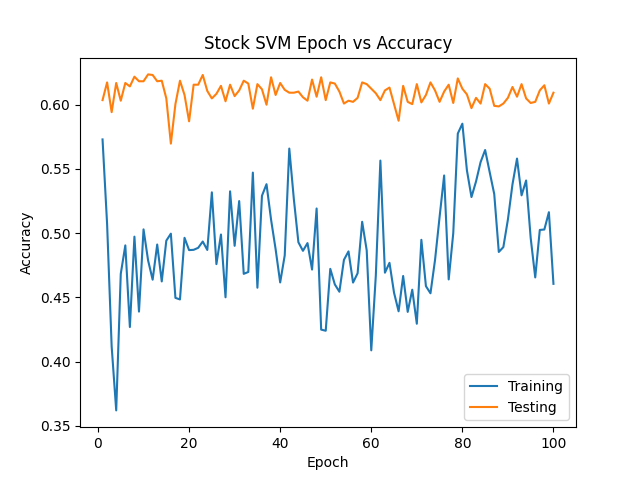
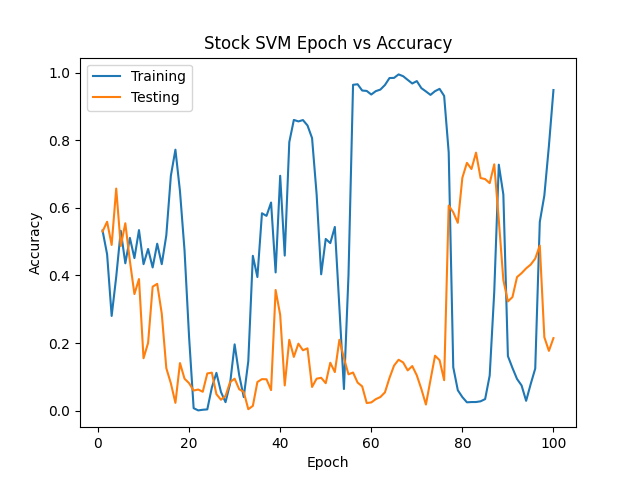
Update

diff --git a/1/nn.py b/1/nn.py
@@ -8,7 +8,7 @@ accuracy_key = 'categorical_accuracy'
 def neural_network(data, depth, width, is_stock=False, with_history=False, epochs=100, validation_split=0.2, should_normalize=True):
     train_features, train_labels, test_features, test_labels, normalize = data
     model = k.Sequential([normalize])
-    for i in range(depth):
+    for _ in range(depth):
         model.add(k.layers.Dense(width))
     model.add(k.layers.Dense(2 if is_stock else 4, activation='softmax'))
     model.compile(loss='kl_divergence' if is_stock else 'sparse_categorical_crossentropy', optimizer='adamax' if is_stock else 'adam', metrics=['mse', accuracy_key])
@@ -31,30 +31,27 @@ def stock():
     util.handle_training_testing_plot(lambda width: neural_network(get_stock_data(1), depth, width, True), widths, "Stock NN Width vs Accuracy", 'Width')
 
     width = stock_days*2
-    a, b, history = neural_network(get_stock_data(1), depth, width, True, True)
+    _, _, history = neural_network(get_stock_data(1), depth, width, True, True)
     epochs = [*range(1,history.params['epochs']+1)]
     training_accuracies = history.history[accuracy_key]
     testing_accuracies = history.history['val_'+accuracy_key]
     util.handle_training_testing_plot(lambda epoch: (training_accuracies[epoch-1], testing_accuracies[epoch-1]), epochs, "Stock NN Epoch vs Accuracy", 'Epoch')
 
 def yoga():
-    data = get_yoga_data(1)
-    # width = yoga_count*2
-    for width in [*range(int(yoga_count/4), int(yoga_count*3)+1, int(yoga_count/4))]:
-        print('WIDTH IS ', width)
-        depths = [*range(1, 6)]
-        util.handle_training_testing_plot(lambda depth: neural_network(data, depth, width, False), depths, f"Yoga NN {width} Depth vs Accuracy", 'Depth')
+    width = yoga_count*2
+    depths = [*range(1, 6)]
+    util.handle_training_testing_plot(lambda depth: neural_network(get_yoga_data(1), depth, width, False), depths, f"Yoga NN Depth vs Accuracy", 'Depth')
 
-    # depth = depths[0]
-    # widths = [*range(int(yoga_count/4), int(yoga_count*3)+1, int(yoga_count/4))]
-    # util.handle_training_testing_plot(lambda width: neural_network(get_yoga_data(1), depth, width, False), widths, "Yoga NN Width vs Accuracy", 'Width')
+    depth = depths[-1]
+    widths = [*range(int(yoga_count/4), int(yoga_count*3)+1, int(yoga_count/4))]
+    util.handle_training_testing_plot(lambda width: neural_network(get_yoga_data(1), depth, width, False), widths, "Yoga NN Width vs Accuracy", 'Width')
 
-    # width = widths[0]
-    # a, b, history = neural_network(get_yoga_data(1), depth, width, False, True)
-    # epochs = [*range(1,history.params['epochs']+1)]
-    # training_accuracies = history.history[accuracy_key]
-    # testing_accuracies = history.history['val_'+accuracy_key]
-    # util.handle_training_testing_plot(lambda epoch: (training_accuracies[epoch-1], testing_accuracies[epoch-1]), epochs, "Yoga NN Epoch vs Accuracy", 'Epoch')
+    width = yoga_count*2
+    _, _, history = neural_network(get_yoga_data(1), depth, width, False, True)
+    epochs = [*range(1,history.params['epochs']+1)]
+    training_accuracies = history.history[accuracy_key]
+    testing_accuracies = history.history['val_'+accuracy_key]
+    util.handle_training_testing_plot(lambda epoch: (training_accuracies[epoch-1], testing_accuracies[epoch-1]), epochs, "Yoga NN Epoch vs Accuracy", 'Epoch')
 
 def main():
     # stock()

diff --git a/1/svm.py b/1/svm.py
@@ -37,12 +37,12 @@ def stock():
     kernel_functions = ['gaussian', 'laplacian']
     util.handle_training_testing_plot(lambda kernel_function: support_vector_machine(get_stock_data(1), kernel_function, learning_rate, True), kernel_functions, "Stock SVM Kernel Function vs Accuracy", 'Kernel Function')
 
-    kernel_function = kernel_functions[0]
+    kernel_function = kernel_functions[1]
     learning_rates = [1e-1, 1e-2, 1e-3, 1e-4, 1e-5]
     util.handle_training_testing_plot(lambda learning_rate: support_vector_machine(get_stock_data(1), kernel_function, learning_rate, True), learning_rates, "Stock SVM Learning Rate vs Accuracy", 'Learning Rate')
 
     learning_rate = learning_rates[0]
-    a, b, history = support_vector_machine(get_stock_data(1), kernel_function, learning_rate, True, True)
+    _, _, history = support_vector_machine(get_stock_data(1), kernel_function, learning_rate, True, True)
     epochs = [*range(1,history.params['epochs']+1)]
     training_accuracies = history.history[accuracy_key]
     testing_accuracies = history.history['val_'+accuracy_key]
@@ -58,7 +58,7 @@ def yoga():
     util.handle_training_testing_plot(lambda learning_rate: support_vector_machine(get_yoga_data(1), kernel_function, learning_rate, False), learning_rates, "Yoga SVM Learning Rate vs Accuracy", 'Learning Rate')
 
     learning_rate = learning_rates[2]
-    a, b, history = support_vector_machine(get_yoga_data(1), kernel_function, learning_rate, False, True)
+    _, _, history = support_vector_machine(get_yoga_data(1), kernel_function, learning_rate, False, True)
     epochs = [*range(1,history.params['epochs']+1)]
     training_accuracies = history.history[accuracy_key]
     testing_accuracies = history.history['val_'+accuracy_key]
@@ -66,7 +66,7 @@ def yoga():
 
 def main():
     stock()
-    # yoga()
+    yoga()
 
 if __name__ == "__main__":
     main()
